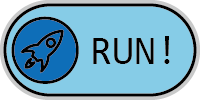
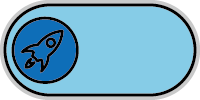
Make game control bar translatable.

Changed region(s): [[0.45, 0.36, 0.78, 0.66], [0.81, 0.36, 0.87, 0.66]]

diff --git a/frontend/widgets/game-control-bar/style.scss b/frontend/widgets/game-control-bar/style.scss
@@ -17,11 +17,21 @@
     background-position: center;
     display : inline-block;
     height : $height;
+    line-height : $height;
   }
   .button-large
   {
     @extend .button;
     width : $large_button_width;
+    padding-left: 100px;
+    font-size: 2em;
+    color: black;
+    &:hover {
+      text-decoration: none;
+    }
+    &:active {
+      text-decoration: none;
+    }
   }
   .button-small
   {
